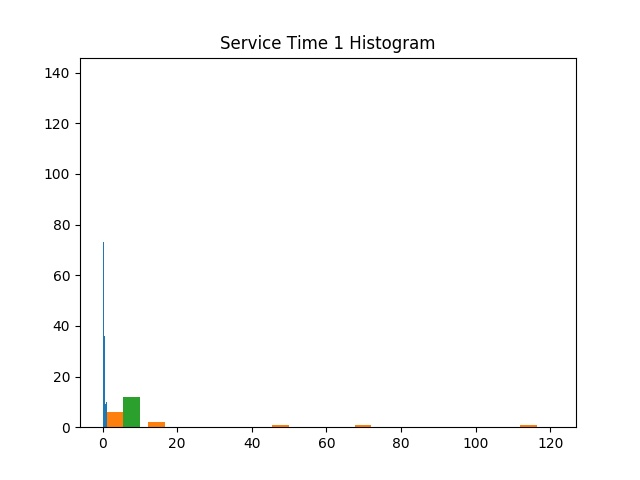
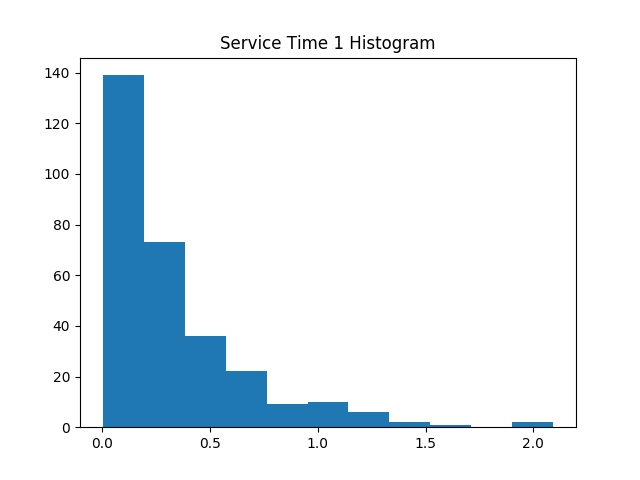
improved histograms; changed sample images

Changed region(s): [[0.125, 0.1562, 0.7812, 0.9375], [0.7812, 0.875, 0.875, 0.9375]]

diff --git a/assignment_2/question_3/singleserverqueue.py b/assignment_2/question_3/singleserverqueue.py
@@ -13,6 +13,7 @@ def queue_hist(filename):
     service2_list = []
     bin_count = 0
 
+
     with open(filename) as csvfile:
         readCSV = csv.reader(csvfile, delimiter=',')
         for row in readCSV:
@@ -34,18 +35,24 @@ def queue_hist(filename):
         service2_rate = 1 / average_service2
     bin_count = int(np.floor(1.66*(count**(1/3))))
 
+    service1_max = max(service1_list)
+    service2_max = max(service2_list)
+
+    hist1_range = np.arange(0, service1_max, 10)
+    hist2_range = np.arange(0, service2_max, 10)
     inter_hist = np.histogram(interarrival_list, bins=bin_count)
-    service1_hist = np.histogram(service1_list, bins=bin_count)
-    service2_hist = np.histogram(service2_list, bins=bin_count)
+    service1_hist = np.histogram(service1_list, bins=hist1_range)
+    service2_hist = np.histogram(service2_list, bins=hist2_range)
+
 
     plt.hist(interarrival_list, bins=bin_count)
     plt.title("Interarrival Histogram")
     plt.savefig("interarrival.jpg")
 
-    plt.hist(service1_hist, bins=bin_count)
+    plt.hist(service1_hist, bins=hist1_range)
     plt.title("Service Time 1 Histogram")
     plt.savefig("service1.jpg")
 
-    plt.hist(service2_hist, bins=bin_count)
+    plt.hist(service2_hist, bins=hist2_range)
     plt.title("Service Time 2 Histogram")
     plt.savefig("service2.jpg")
